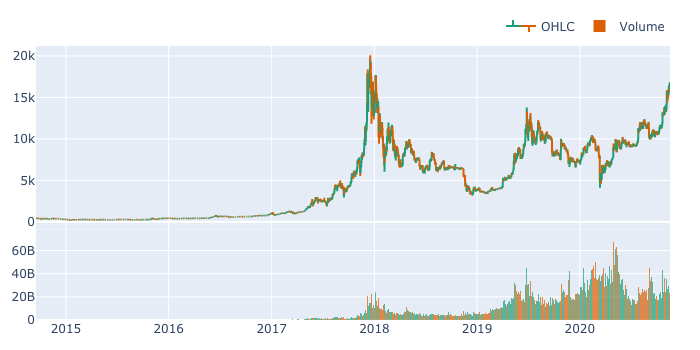
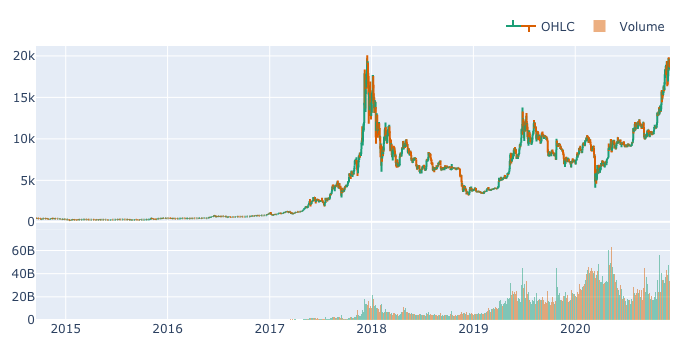
Update app and documentation

diff --git a/apps/candlestick-patterns/app.py b/apps/candlestick-patterns/app.py
@@ -28,8 +28,8 @@ from talib._ta_lib import (
 )
 import vectorbt as vbt
 from vectorbt.utils.config import merge_dicts
-from vectorbt.settings import color_schema, contrast_color_schema
-from vectorbt.utils.colors import adjust_opacity, adjust_lightness
+from vectorbt.settings import color_schema
+from vectorbt.utils.colors import adjust_opacity
 
 USE_CACHING = os.environ.get(
     "USE_CACHING",
@@ -234,6 +234,7 @@ app.layout = html.Div(
                                 dbc.Row(
                                     children=[
                                         dbc.Col(
+                                            lg=4, sm=12,
                                             children=[
                                                 html.Label("Select plot type:"),
                                                 dcc.Dropdown(
@@ -242,9 +243,7 @@ app.layout = html.Div(
                                                     value=default_plot_type,
                                                 ),
                                             ]
-                                        ),
-                                        dbc.Col(),
-                                        dbc.Col()
+                                        )
                                     ],
                                 ),
                                 dcc.Loading(
@@ -279,6 +278,7 @@ app.layout = html.Div(
                                                 dbc.Row(
                                                     children=[
                                                         dbc.Col(
+                                                            lg=6, sm=12,
                                                             children=[
                                                                 html.Label("Select subplots:"),
                                                                 dcc.Dropdown(
@@ -289,8 +289,7 @@ app.layout = html.Div(
                                                                     value=default_subplots,
                                                                 ),
                                                             ]
-                                                        ),
-                                                        dbc.Col()
+                                                        )
                                                     ],
                                                 ),
                                                 dcc.Loading(
@@ -914,8 +913,20 @@ app.layout = html.Div(
         html.Div(id='data_signal', style={'display': 'none'}),
         html.Div(id='index_signal', style={'display': 'none'}),
         html.Div(id='candle_settings_signal', style={'display': 'none'}),
-        html.Div(id='stats_signal', style={'display': 'none'})
+        html.Div(id='stats_signal', style={'display': 'none'}),
+        html.Div(id="window_width", style={'display': 'none'}),
+        dcc.Location(id="url")
     ],
+)
+
+app.clientside_callback(
+    """
+    function(href) {
+        return window.innerWidth;
+    }
+    """,
+    Output("window_width", "children"),
+    [Input("url", "href")],
 )
 
 
@@ -1057,7 +1068,8 @@ def set_candle_settings(data):
      Output("prob_settings", "hidden"),
      Output("entry_prob_input", "value"),
      Output("exit_prob_input", "value")],
-    [Input('plot_type_dropdown', 'value'),
+    [Input('window_width', 'children'),
+     Input('plot_type_dropdown', 'value'),
      Input('data_signal', 'children'),
      Input('date_slider', 'value'),
      Input('entry_pattern_dropdown', 'value'),
@@ -1070,7 +1082,7 @@ def set_candle_settings(data):
     [State("entry_prob_input", "value"),
      State("exit_prob_input", "value")]
 )
-def update_ohlcv(plot_type, df_json, date_range, entry_patterns, exit_patterns, _1,
+def update_ohlcv(window_width, plot_type, df_json, date_range, entry_patterns, exit_patterns, _1,
                  entry_dates, exit_dates, prob_options, _2, entry_prob, exit_prob):
     """Update OHLCV graph.
 
@@ -1124,104 +1136,65 @@ def update_ohlcv(plot_type, df_json, date_range, entry_patterns, exit_patterns, 
     lowest_low = df['Low'].min()
     distance = (highest_high - lowest_low) / 5
     entry_y = df.loc[entry_df.index, 'Low'] - distance
+    entry_y.index = pd.to_datetime(entry_y.index)
     exit_y = df.loc[exit_df.index, 'High'] + distance
+    exit_y.index = pd.to_datetime(exit_y.index)
 
-    # Color volume
-    close_open_diff = df['Close'].values - df['Open'].values
-    volume_color = np.empty(df['Volume'].shape, dtype=np.object)
-    volume_color[close_open_diff > 0] = color_schema['increasing']
-    volume_color[close_open_diff == 0] = color_schema['gray']
-    volume_color[close_open_diff < 0] = color_schema['decreasing']
+    # Prepare signals
+    entry_signals = pd.Series.vbt.empty_like(entry_y, True)
+    exit_signals = pd.Series.vbt.empty_like(exit_y, True)
 
     # Build graph
-    graph_obj = go.Ohlc if plot_type == 'OHLC' else go.Candlestick
-    figure = dict(
-        data=[
-            graph_obj(
-                x=pd.to_datetime(df.index),
-                open=df['Open'],
-                high=df['High'],
-                low=df['Low'],
-                close=df['Close'],
-                name='OHLC',
-                yaxis="y2",
-                xaxis="x",
-                increasing_line_color=color_schema['increasing'],
-                decreasing_line_color=color_schema['decreasing']
-            ),
-            go.Scatter(
-                x=pd.to_datetime(entry_y.index),
-                y=entry_y,
-                customdata=entry_patterns[:, None],
-                hovertemplate='%{x}<br>%{customdata[0]}',
-                mode='markers',
-                marker=dict(
-                    size=8,
-                    symbol='triangle-up',
-                    color=contrast_color_schema['green']
-                ),
-                name='Bullish signal',
-                yaxis="y2",
-                xaxis="x",
-            ),
-            go.Scatter(
-                x=pd.to_datetime(exit_y.index),
-                y=exit_y,
-                customdata=exit_patterns[:, None],
-                hovertemplate='%{x}<br>%{customdata[0]}',
-                mode='markers',
-                marker=dict(
-                    size=8,
-                    symbol='triangle-down',
-                    color=contrast_color_schema['red'],
-                ),
-                name='Bearish signal',
-                yaxis="y2",
-                xaxis="x",
-            ),
-            go.Bar(
-                x=pd.to_datetime(df.index),
-                y=df['Volume'],
-                marker=dict(
-                    color=volume_color,
-                    line_width=0
-                ),
-                opacity=0.3,
-                name='Volume',
-                yaxis="y",
-                xaxis="x"
-            )
-        ],
-        layout=merge_dicts(
+    height = int(9 / 21 * 2 / 3 * window_width)
+    fig = df.vbt.ohlcv.plot(
+        plot_type=plot_type,
+        **merge_dicts(
             default_layout,
             dict(
-                height=500,
+                width=None,
+                height=max(500, height),
                 margin=dict(r=40),
                 hovermode="closest",
                 xaxis=dict(
-                    gridcolor=gridcolor,
-                    rangeslider=dict(
-                        visible=False
-                    ),
-                    spikemode='across+marker',
                     title='Date'
                 ),
                 yaxis=dict(
-                    gridcolor=gridcolor,
-                    domain=[0, 0.3],
-                    spikemode='across+marker',
                     title='Volume'
                 ),
                 yaxis2=dict(
-                    gridcolor=gridcolor,
-                    domain=[0.4, 1],
-                    spikemode='across+marker',
                     title='Price',
-                ),
-                bargap=0
+                )
             )
         )
     )
+    fig.update_xaxes(spikemode='across+marker')
+    fig.update_yaxes(spikemode='across+marker')
+    entry_signals.vbt.signals.plot_as_entry_markers(
+        name='Bullish signal',
+        y=entry_y,
+        trace_kwargs=dict(
+            customdata=entry_patterns[:, None],
+            hovertemplate='%{x}<br>%{customdata[0]}',
+            yaxis="y2",
+            xaxis="x"
+        ),
+        fig=fig
+    )
+    exit_signals.vbt.signals.plot_as_exit_markers(
+        name='Bearish signal',
+        y=exit_y,
+        trace_kwargs=dict(
+            customdata=exit_patterns[:, None],
+            hovertemplate='%{x}<br>%{customdata[0]}',
+            yaxis="y2",
+            xaxis="x"
+        ),
+        fig=fig
+    )
+    fig.update_xaxes(gridcolor=gridcolor)
+    fig.update_yaxes(gridcolor=gridcolor, zerolinecolor=gridcolor)
+    figure = dict(data=fig.data, layout=fig.layout)
+
     mimic_strategy = 'mimic_strategy' in prob_options
     ctx = dash.callback_context
     if ctx.triggered:
@@ -1349,7 +1322,8 @@ def simulate_portfolio(df, interval, date_range, selected_data, entry_patterns, 
      Output('stats_signal', 'children'),
      Output('metric_dropdown', 'options'),
      Output('metric_dropdown', 'value')],
-    [Input('subplot_dropdown', 'value'),
+    [Input('window_width', 'children'),
+     Input('subplot_dropdown', 'value'),
      Input('data_signal', 'children'),
      Input('symbol_input', 'value'),
      Input('interval_dropdown', 'value'),
@@ -1374,10 +1348,10 @@ def simulate_portfolio(df, interval, date_range, selected_data, entry_patterns, 
      Input("reset_button", "n_clicks")],
     [State('metric_dropdown', 'value')]
 )
-def update_stats(subplots, df_json, symbol, interval, date_range, selected_data, entry_patterns, exit_patterns,
-                 _1, entry_dates, exit_dates, fees, fixed_fees, slippage, direction, conflict_mode,
-                 sim_options, n_random_strat, prob_options, entry_prob, exit_prob, stats_options,
-                 _2, curr_metric):
+def update_stats(window_width, subplots, df_json, symbol, interval, date_range, selected_data,
+                 entry_patterns, exit_patterns, _1, entry_dates, exit_dates, fees, fixed_fees,
+                 slippage, direction, conflict_mode, sim_options, n_random_strat, prob_options,
+                 entry_prob, exit_prob, stats_options, _2, curr_metric):
     """Final stage where we calculate key performance metrics and compare strategies."""
     df = pd.read_json(df_json, orient='split')
 
@@ -1397,18 +1371,28 @@ def update_stats(subplots, df_json, symbol, interval, date_range, selected_data,
                 )
             )
         )
+    height = int(6 / 21 * 2 / 3 * window_width)
     fig = main_portfolio.plot(
         subplots=subplots,
         **subplot_kwags,
         **merge_dicts(
             default_layout,
             dict(
-                width=None
+                width=None,
+                height=len(subplots) * max(300, height) if len(subplots) > 1 else max(350, height)
             )
         )
     )
-    fig.update_xaxes(gridcolor=gridcolor)
-    fig.update_yaxes(gridcolor=gridcolor, zerolinecolor=gridcolor)
+    fig.update_traces(xaxis="x" if len(subplots) == 1 else "x" + str(len(subplots)))
+    fig.update_xaxes(
+        spikemode='across+marker',
+        gridcolor=gridcolor
+    )
+    fig.update_yaxes(
+        spikemode='across+marker',
+        gridcolor=gridcolor,
+        zerolinecolor=gridcolor
+    )
 
     def _chop_microseconds(delta):
         return delta - pd.Timedelta(microseconds=delta.microseconds, nanoseconds=delta.nanoseconds)
@@ -1470,12 +1454,14 @@ def update_stats(subplots, df_json, symbol, interval, date_range, selected_data,
 
 @app.callback(
     Output('metric_graph', 'figure'),
-    [Input('stats_signal', 'children'),
+    [Input('window_width', 'children'),
+     Input('stats_signal', 'children'),
      Input('metric_dropdown', 'value')]
 )
-def update_metric_stats(stats_json, metric):
+def update_metric_stats(window_width, stats_json, metric):
     """Once a new metric has been selected, plot its distribution."""
     stats_dict = json.loads(stats_json)
+    height = int(9 / 21 * 2 / 3 * 2 / 3 * window_width)
     return dict(
         data=[
             go.Box(
@@ -1530,7 +1516,7 @@ def update_metric_stats(stats_json, metric):
         layout=merge_dicts(
             default_layout,
             dict(
-                height=350,
+                height=max(350, height),
                 showlegend=False,
                 margin=dict(l=60, r=20, t=40, b=20),
                 hovermode="closest",

diff --git a/README.md b/README.md
@@ -24,31 +24,48 @@ With vectorbt you can
 * Test machine learning models
 * Build interactive charts/dashboards without leaving Jupyter
 
-## Basic example
+## Example
 
-We hate boilerplate code, that's why in vectorbt you can start with as little as a couple of lines.
-Here is how much profit we would have made if we bought 10 Netflix shares back in 2002:
+We all hate boilerplate code, that's why in vectorbt you can start with as little as a couple of lines.
+Here is how much profit we would have made if we invested 100$ into Bitcoin in 2014:
 
 ```python
 import yfinance as yf
+import numpy as np
 import pandas as pd
 import vectorbt as vbt
 
-price = yf.Ticker('NFLX').history(period='max')['Close']
+price = yf.Ticker('BTC-USD').history(period='max')['Close']
 size = pd.Series.vbt.empty_like(price, 0.)
-size.iloc[0] = 1.
-portfolio = vbt.Portfolio.from_orders(price, size, init_cash='auto')
+size.iloc[0] = np.inf  # go all in
+portfolio = vbt.Portfolio.from_orders(price, size, init_cash=100.)
 portfolio.total_profit()
 ```
 
 ```plaintext
-5021.8
+4065.1702287767293
 ```
 
-## Advanced example
+And here is how a crossover of 10-day SMA and 50-day SMA would perform under the same conditions:
 
-Here a snippet for testing 10,000 window combinations of a dual SMA crossover strategy on BTC, USD and XRP
-from 2017 onwards, in under 5 seconds (Note: first time compiling with Numba may take a while):
+```python
+fast_ma = vbt.MA.run(price, 10)
+slow_ma = vbt.MA.run(price, 50)
+entries = fast_ma.ma_above(slow_ma, crossed=True)
+exits = fast_ma.ma_below(slow_ma, crossed=True)
+portfolio = vbt.Portfolio.from_signals(price, entries, exits, init_cash=100., freq='1D')
+portfolio.total_profit()
+```
+
+```plaintext
+6302.288201465419
+```
+
+Hint: There are much more profitable window combinations than this one.
+
+For fans of grid search, here is a snippet for testing 10,000 window combinations of a dual SMA crossover 
+strategy on BTC, USD and XRP from 2017 onwards, in under 5 seconds (Note: first time compiling with Numba 
+may take a while):
 
 ```python
 import numpy as np
